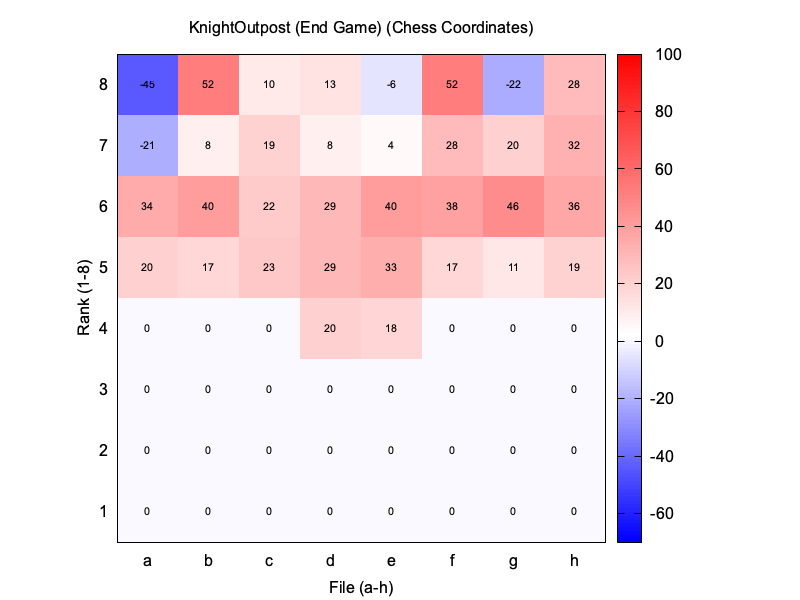
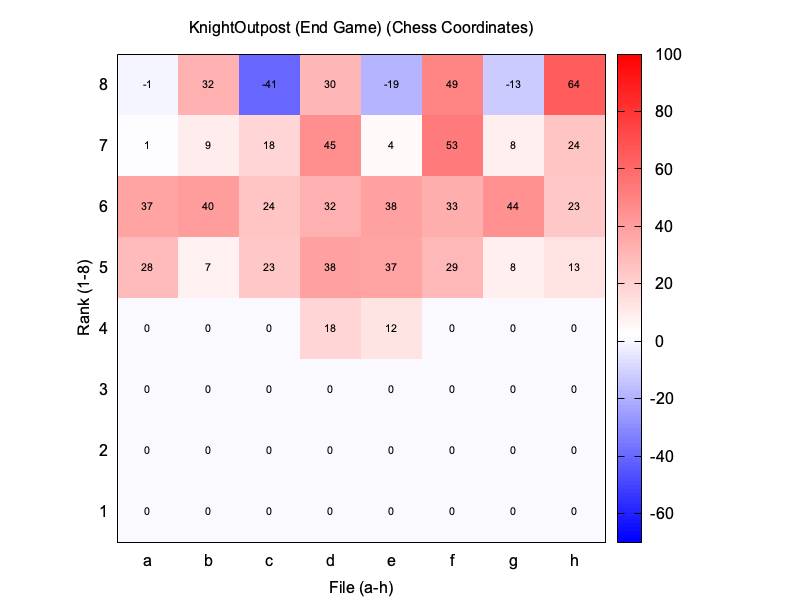
plots
bench 11703297

diff --git a/docs/eval/plots.go b/docs/eval/plots.go
@@ -6,6 +6,7 @@ import (
 	"os"
 	"os/exec"
 	"reflect"
+	"strconv"
 	"strings"
 	"text/template"
 
@@ -358,6 +359,15 @@ func processPairedArray(field reflect.Value, name string, sections *[]MarkdownSe
 func processSingleSequence(field reflect.Value, name, outputFile string, sections *[]MarkdownSection) {
 	var data bytes.Buffer
 	maxX := field.Len() - 1
+
+	if maxX == 0 {
+		if val, ok := field.Index(0).Interface().(Score); ok {
+			*sections = append(*sections, MarkdownSection{
+				Title: name + " : " + strconv.Itoa(int(val)),
+			})
+		}
+		return
+	}
 
 	for i := range field.Len() {
 		val := field.Index(i).Interface().(Score)

diff --git a/docs/eval/readme.md b/docs/eval/readme.md
@@ -84,7 +84,7 @@
 ![TempoBonus](tempobonus.png)
 
 
-Middle Game: 14 | End Game: 14
+Middle Game: 8 | End Game: 1
 
 
 ## KingAttackPieces
@@ -104,7 +104,7 @@ Middle Game: 14 | End Game: 14
 ![KingShelter](kingshelter.png)
 
 
-Middle Game: 7 | End Game: -1
+Middle Game: 7 | End Game: -2
 
 
 ## MobilityKnight
@@ -142,7 +142,7 @@ Middle Game: 7 | End Game: -1
 ![ConnectedRooks](connectedrooks.png)
 
 
-Middle Game: 2 | End Game: 14
+Middle Game: 3 | End Game: 6
 
 
 ## BishopPair
@@ -151,12 +151,30 @@ Middle Game: 2 | End Game: 14
 
 
 
+## OpBishops : 154
+
+![OpBishops : 154]()
+
+
+
+## OpBishopsOutsidePassers : 113
+
+![OpBishopsOutsidePassers : 113]()
+
+
+
+## OpBishopsPawnDelta
+
+![OpBishopsPawnDelta](opbishopspawndelta.png)
+
+
+
 ## ProtectedPasser
 
 ![ProtectedPasser](protectedpasser.png)
 
 
-Middle Game: 20 | End Game: 5
+Middle Game: 37 | End Game: -13
 
 
 ## PasserKingDist
@@ -164,7 +182,7 @@ Middle Game: 20 | End Game: 5
 ![PasserKingDist](passerkingdist.png)
 
 
-Middle Game: -2 | End Game: 11
+Middle Game: 54 | End Game: -2
 
 
 ## PasserRank
@@ -178,7 +196,7 @@ Middle Game: -2 | End Game: 11
 ![DoubledPawns](doubledpawns.png)
 
 
-Middle Game: -13 | End Game: -16
+Middle Game: -8 | End Game: -28
 
 
 ## IsolatedPawns
@@ -186,6 +204,6 @@ Middle Game: -13 | End Game: -16
 ![IsolatedPawns](isolatedpawns.png)
 
 
-Middle Game: -13 | End Game: -14
+Middle Game: -14 | End Game: -10
 
 
